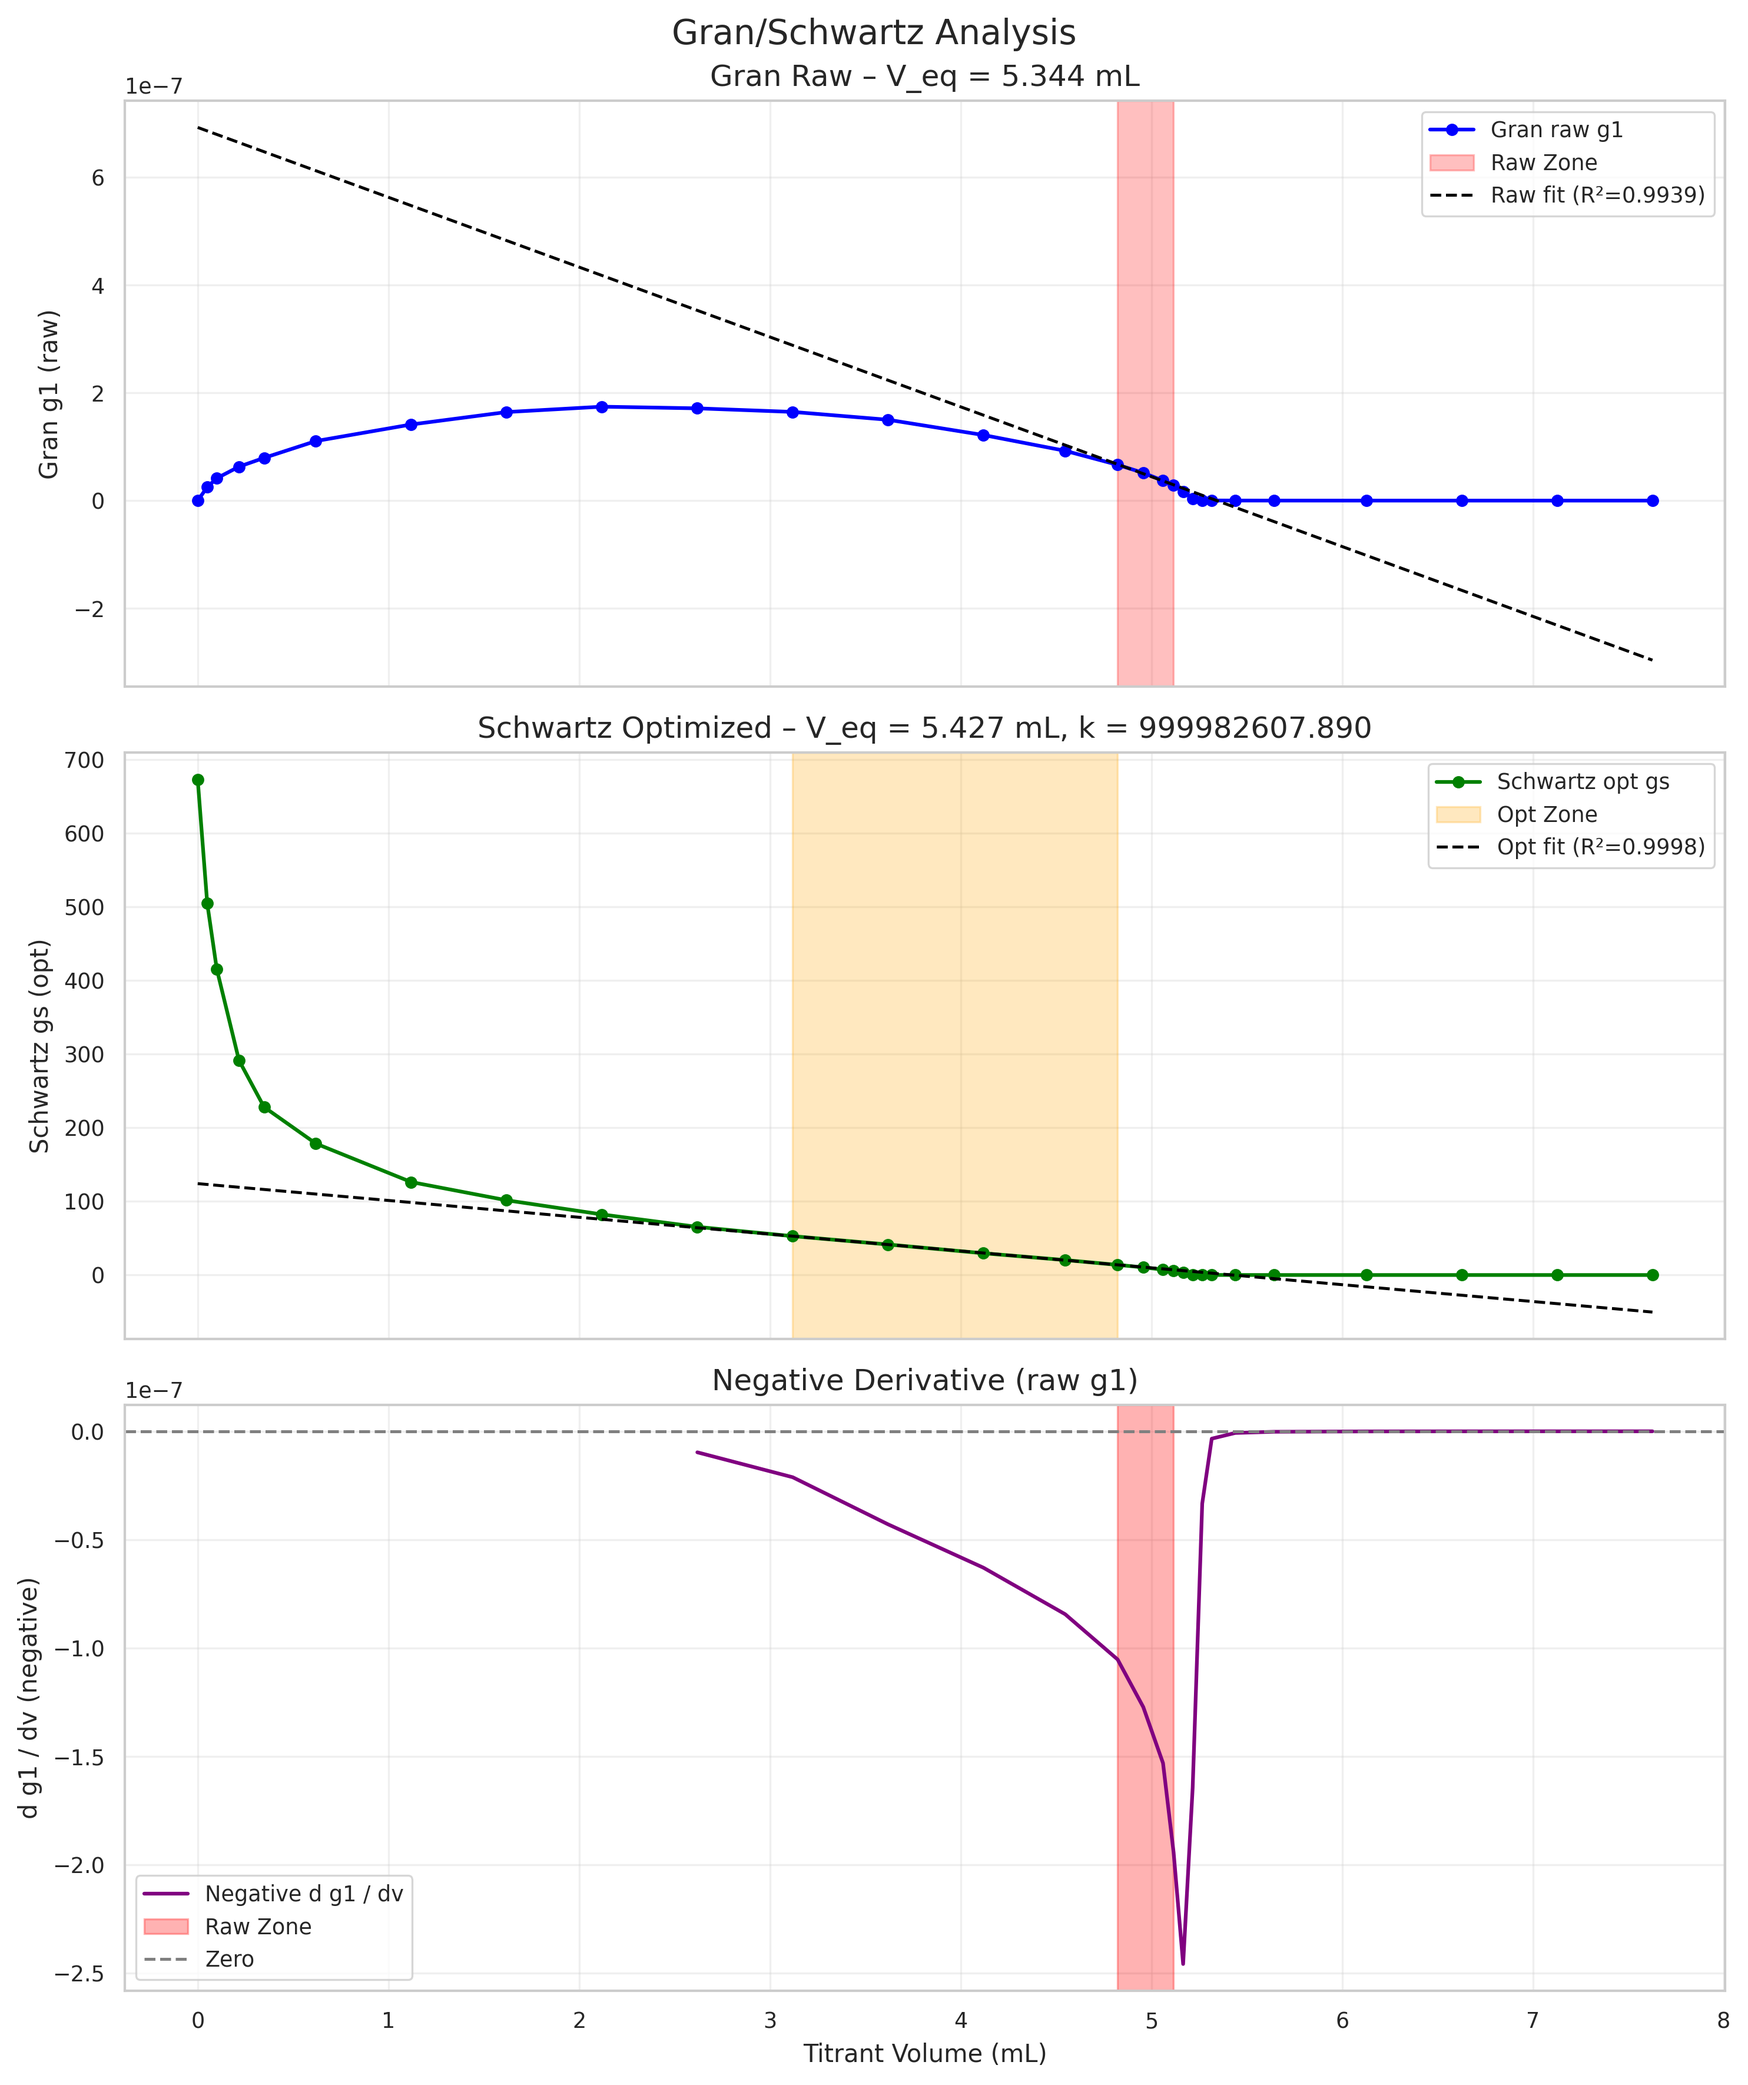
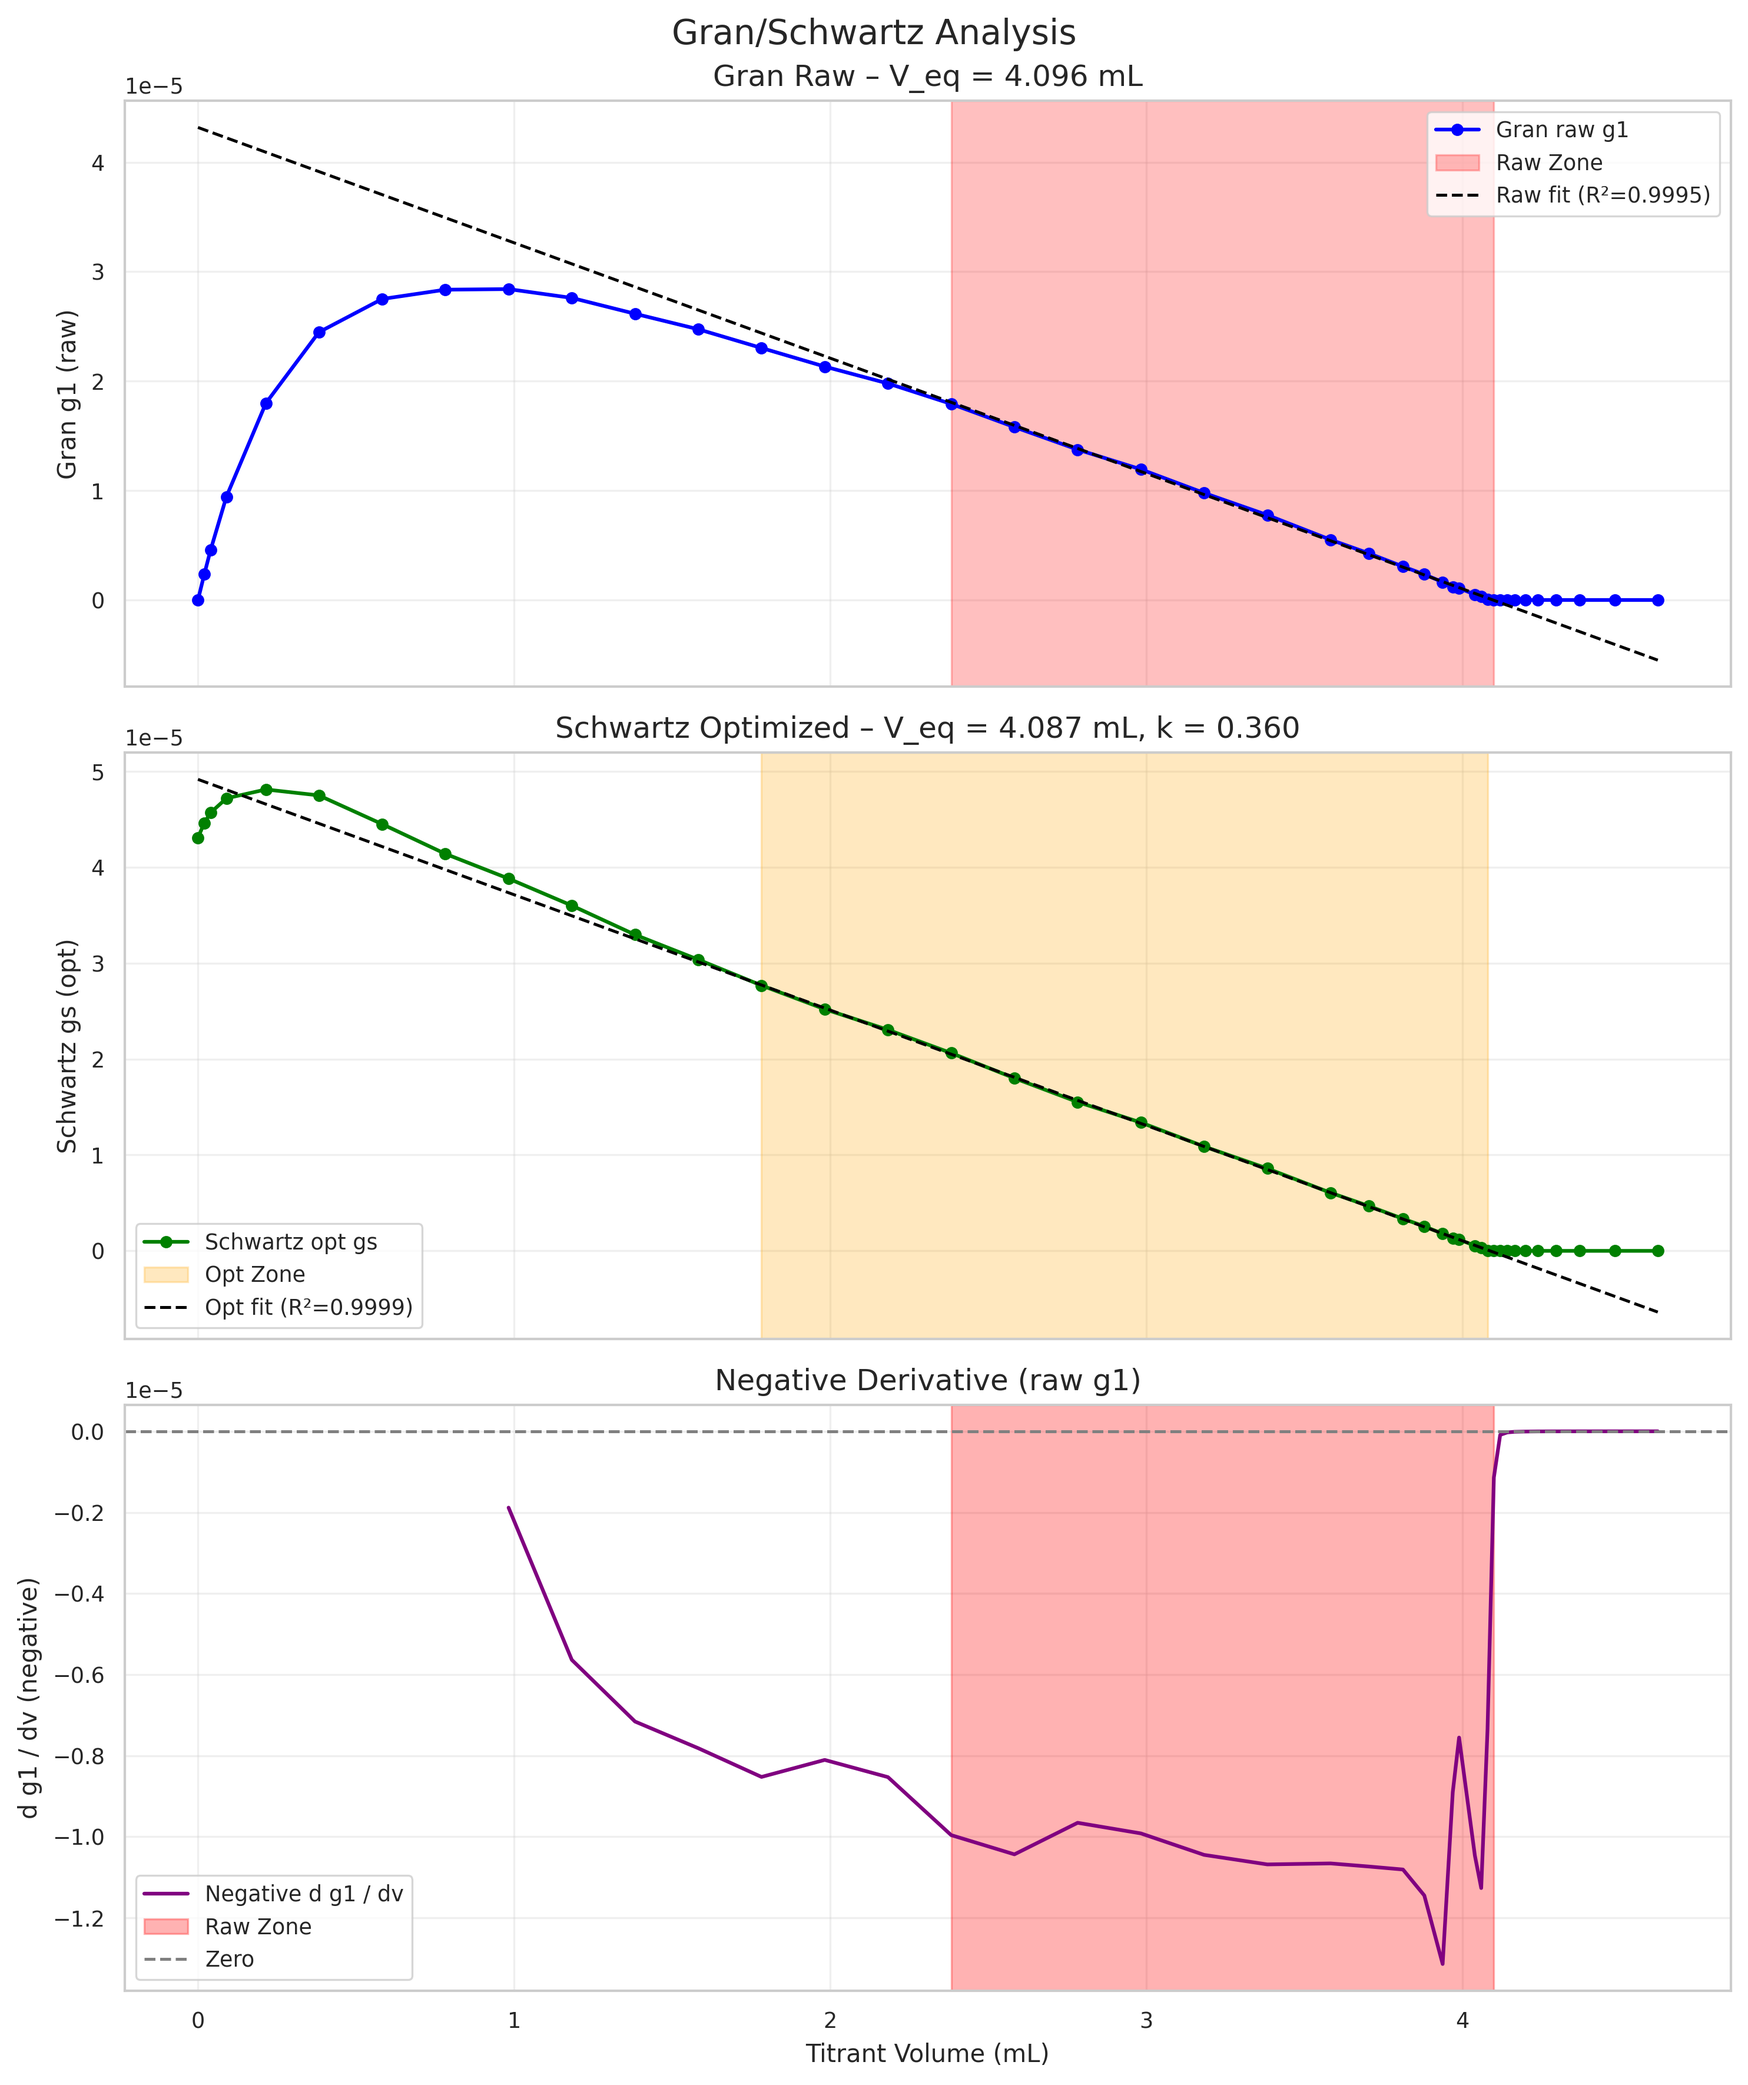
ref

diff --git a/main.py b/main.py
@@ -12,7 +12,10 @@ Dependencies: argparse, sys, json, pathlib + core modules.
 """
 
 __version__ = "0.9.2"  # change manually on each significant update
-# pride versioning: proud_version(bump when you are proud of the release).default_version(just normal/okay releases).shame_version(bump when fixing things too embarrassing to admit)
+# pride versioning: X.Y.Z
+# X = proud_version(bump when you are proud of the release)
+# Y = default_version(just normal/okay releases)
+# Z = shame_version(bump when fixing things too embarrassing to admit)
 
 import argparse
 import sys

diff --git a/analyzer.py b/analyzer.py
@@ -71,6 +71,7 @@ def identify_linear_interval(
     scored = []
     for cand in candidates:
         r2, slope, intercept = _compute_r2(g1_smooth, volume, cand['orig_start'], cand['orig_end'])
+        # score = r2 * 100 + (cand['length'] / len(g1)) * 10 + abs(cand['mean_dg']) * 0.1
         score = r2 * 100 + (cand['length'] / len(g1)) * 10 + abs(cand['mean_dg']) * 0.1
         scored.append((cand, score, r2))
 
